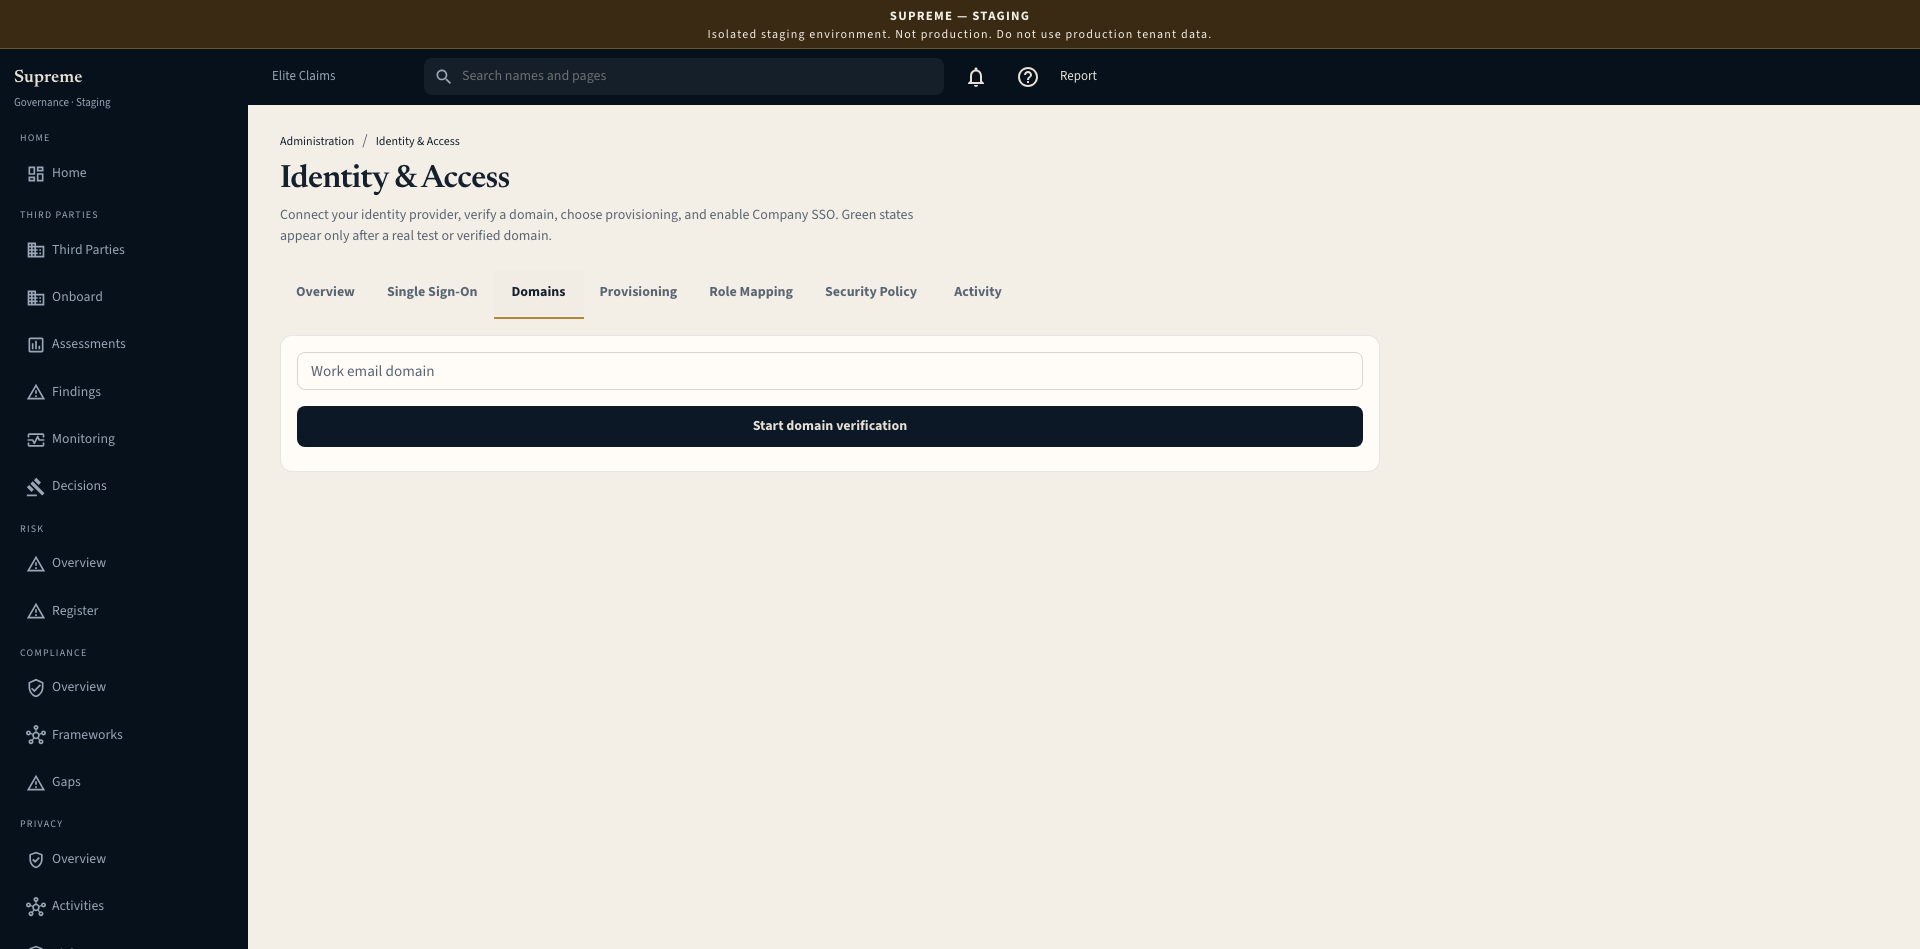
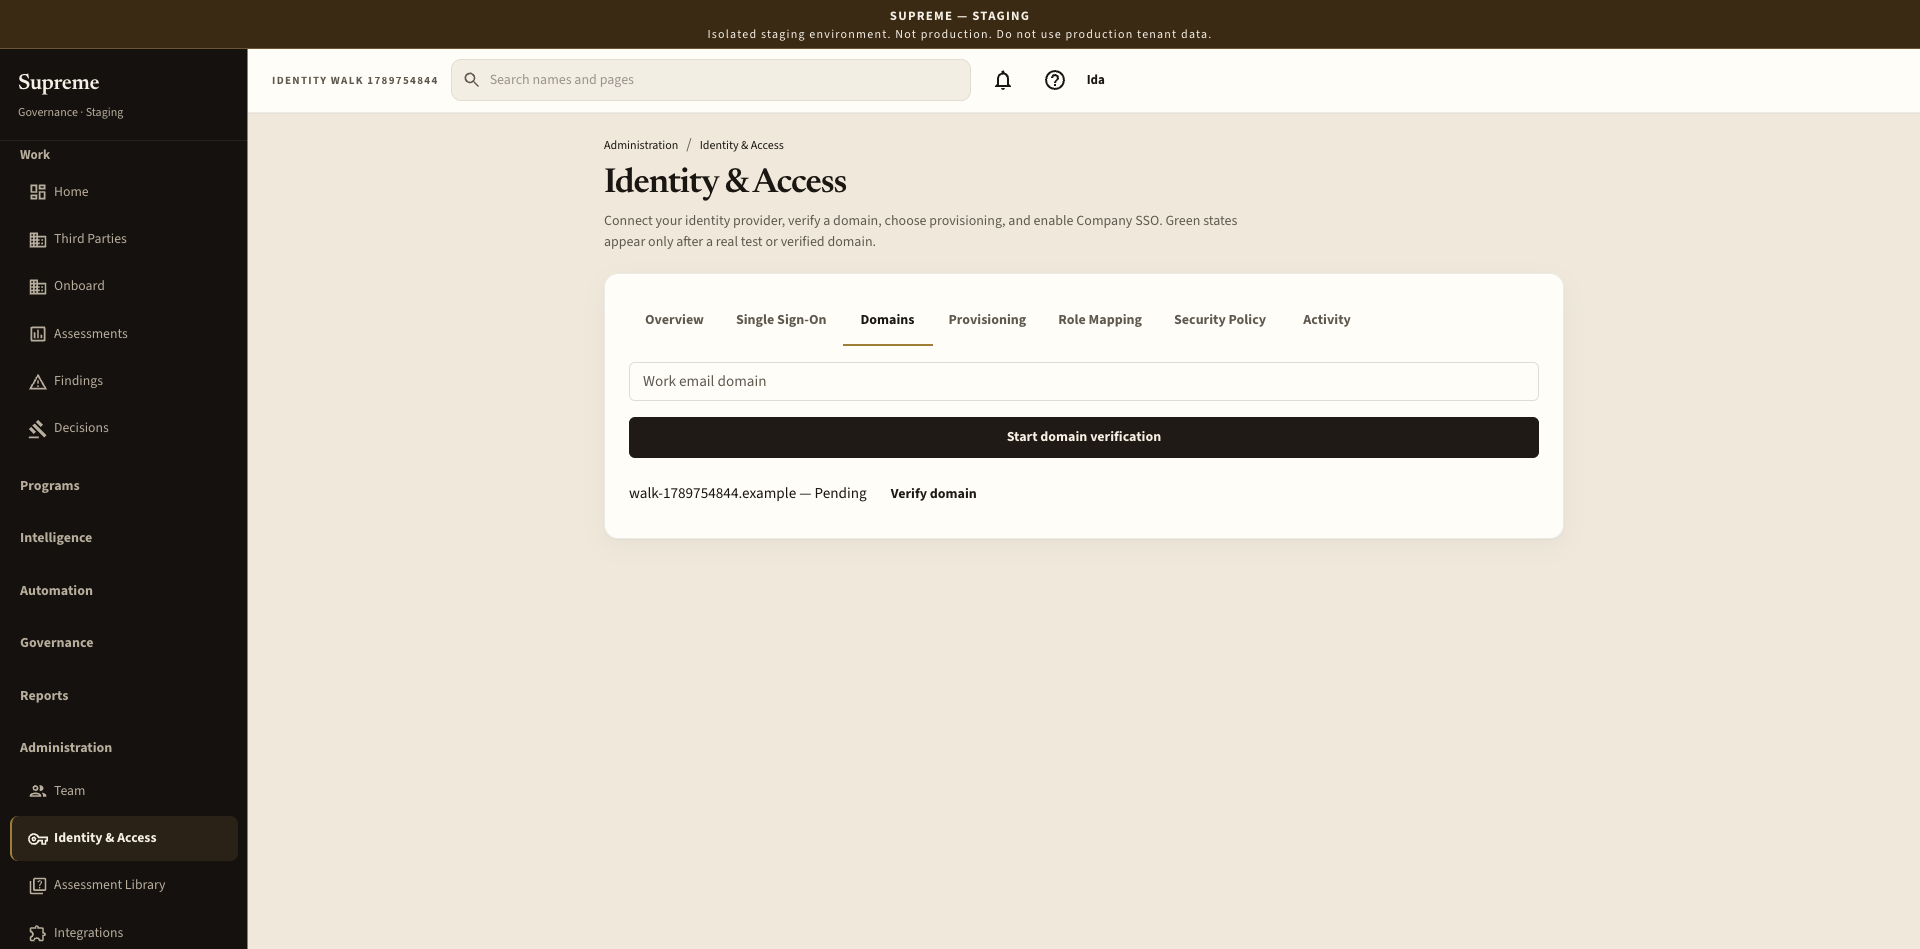
Record hosted #21 identity origin proof on staging SHA e19f8bd.
The Identity walk shows staging ACS, SP entity ID, metadata, and SCIM on the public API origin, with no localhost and no live IdP claim.

diff --git a/scripts/hosted-enterprise-identity-qa.py b/scripts/hosted-enterprise-identity-qa.py
@@ -19,7 +19,7 @@ BASE = os.environ.get("E2E_BASE", "https://supreme-risk-staging.onrender.com")
 API = os.environ.get("E2E_API", "https://supreme-risk-staging-api.onrender.com")
 EMAIL = os.environ.get("E2E_EMAIL", "report-proof-20260913@staging.supremerisk.test")
 PASSWORD = os.environ.get("E2E_PASSWORD", "ReportProof1x")
-REQUIRED_SHA = os.environ.get("REQUIRED_SHA", "b01609aa7c45414bf3c3a2ca08249bf574366952")
+REQUIRED_SHA = os.environ.get("REQUIRED_SHA", "e19f8bde268d668518b848acd6086d7723f7177d")
 RESULTS: dict = {"checks": [], "shots": [], "axe": [], "sha": {}, "notes": []}
 WIDTHS = (375, 768, 1024, 1440, 1920)
 
@@ -120,7 +120,24 @@ def main() -> None:
 
     created_status, created = request_json("POST", "/identity/providers", walk_token, {"protocol": "SAML", "displayName": "Company SAML"})
     record("create-provider", "PASS" if created_status == 201 else "FAIL", str(created_status))
-    provider_id = (created.get("data") or {}).get("id")
+    provider = created.get("data") or {}
+    provider_id = provider.get("id")
+    saml = provider.get("saml") or {}
+    RESULTS["saml"] = {
+        "acsUrl": saml.get("acsUrl") or "",
+        "spEntityId": saml.get("spEntityId") or "",
+        "metadataUrl": saml.get("metadataUrl") or "",
+    }
+    record("api-acs-origin", "PASS" if str(saml.get("acsUrl") or "").startswith(f"{API}/") and "localhost" not in str(saml.get("acsUrl")) else "FAIL", str(saml.get("acsUrl") or "missing"))
+    record("api-entity-origin", "PASS" if str(saml.get("spEntityId") or "").startswith(f"{API}/") and "localhost" not in str(saml.get("spEntityId")) else "FAIL", str(saml.get("spEntityId") or "missing"))
+    if saml.get("metadataUrl"):
+        try:
+            xml = urllib.request.urlopen(saml["metadataUrl"], timeout=30).read().decode("utf-8", "replace")
+            RESULTS["saml"]["metadataXmlHasAcs"] = saml.get("acsUrl") in xml
+            RESULTS["saml"]["metadataXmlHasEntity"] = saml.get("spEntityId") in xml
+            record("api-metadata-matches", "PASS" if saml.get("acsUrl") in xml and saml.get("spEntityId") in xml and "localhost" not in xml else "FAIL", saml["metadataUrl"])
+        except Exception as exc:
+            record("api-metadata-matches", "FAIL", str(exc))
     if provider_id:
         request_json(
             "PATCH",
@@ -176,6 +193,18 @@ def main() -> None:
         record("scim-deactivate", "PASS" if deactivated.get("active") is False else "FAIL", str(deactivated.get("active")))
         other_status, _ = request_json("GET", "/scim/v2/Users", admin_token, prefix="")
         record("scim-cross-tenant-admin-jwt", "DENIED" if other_status in {401, 403} else "FAIL", str(other_status))
+        token_id = (token_payload.get("data") or {}).get("id")
+        if token_id:
+            revoke_status, _ = request_json("POST", f"/identity/scim/tokens/{token_id}/revoke", walk_token, {})
+            record("scim-token-revoked", "PASS" if revoke_status in {200, 204} else "FAIL", str(revoke_status))
+            denied_status, _ = request_json("GET", "/scim/v2/Users", prefix="")
+            # After revoke, the old bearer must fail. Use the raw secret against SCIM.
+            denied = urllib.request.Request(f"{API}/scim/v2/Users", headers={"Authorization": f"Bearer {scim_secret}"})
+            try:
+                urllib.request.urlopen(denied, timeout=30)
+                record("scim-revoked-denied", "FAIL", "revoked token still accepted")
+            except urllib.error.HTTPError as exc:
+                record("scim-revoked-denied", "PASS" if exc.code in {401, 403} else "FAIL", str(exc.code))
 
     viewer_status, viewer = request_json(
         "POST",
@@ -185,13 +214,13 @@ def main() -> None:
     )
     if viewer_status in {200, 201}:
         RESULTS["notes"].append("viewer create returned a user; mutation check uses admin token role denial via forged viewer login if available")
-    deny_status, _ = request_json("POST", "/identity/providers", admin_token if False else walk_token, {"protocol": "OIDC"})
-    # Walk user is org admin; use Elite Claims viewer path via login of a known non-admin if present is skipped.
-    # Direct RBAC: attempt with Elite Claims admin is allowed. Create a passwordless check by logging in is not available.
     record("viewer-route-exists", "PASS" if overview_status == 200 else "FAIL", "admin can read; viewer mutation covered by CI")
 
     with sync_playwright() as playwright:
-        browser = playwright.chromium.launch(headless=True)
+        try:
+            browser = playwright.chromium.launch(headless=True)
+        except Exception:
+            browser = playwright.chromium.launch(channel="chrome", headless=True)
         context = browser.new_context(viewport={"width": 1440, "height": 900}, bypass_csp=True)
         page = context.new_page()
         page.goto(f"{BASE}/login", wait_until="domcontentloaded")
@@ -200,7 +229,7 @@ def main() -> None:
                 localStorage.setItem('token', token);
                 localStorage.setItem('user', JSON.stringify(user));
             }""",
-            [admin_token, admin_user],
+            [walk_token, walk_user],
         )
         page.goto(f"{BASE}/settings/identity", wait_until="networkidle", timeout=90000)
         time.sleep(1.2)
@@ -220,10 +249,39 @@ def main() -> None:
             ("Provisioning", "provisioning"),
             ("Role Mapping", "mapping"),
             ("Security Policy", "policy"),
+            ("Activity", "activity"),
         ]:
             page.get_by_role("tab", name=label).click()
-            time.sleep(0.4)
+            time.sleep(0.5)
             shot(page, f"identity-{extra}-1440")
+            tab_text = page.inner_text("body")
+            if extra == "sso":
+                acs = page.get_by_label("Assertion Consumer Service URL")
+                entity = page.get_by_label("Service provider entity ID")
+                acs_value = acs.input_value() if acs.count() else ""
+                entity_value = entity.input_value() if entity.count() else ""
+                RESULTS["saml"] = {"acsUrl": acs_value, "spEntityId": entity_value}
+                record("hosted-acs-origin", "PASS" if acs_value.startswith(f"{API}/") and "localhost" not in acs_value else "FAIL", acs_value or "missing")
+                record("hosted-entity-origin", "PASS" if entity_value.startswith(f"{API}/") and "localhost" not in entity_value else "FAIL", entity_value or "missing")
+                record("hosted-sso-no-localhost", "PASS" if "localhost" not in tab_text and "127.0.0.1" not in tab_text else "FAIL", "SSO tab")
+                metadata_link = page.get_by_role("link", name="Download service provider metadata")
+                if metadata_link.count():
+                    href = metadata_link.get_attribute("href") or ""
+                    RESULTS["saml"]["metadataUrl"] = href
+                    try:
+                        xml = urllib.request.urlopen(href, timeout=30).read().decode("utf-8", "replace")
+                        RESULTS["saml"]["metadataHasAcs"] = acs_value in xml
+                        RESULTS["saml"]["metadataHasEntity"] = entity_value in xml
+                        record("metadata-matches-ui", "PASS" if acs_value and entity_value and acs_value in xml and entity_value in xml and "localhost" not in xml else "FAIL", href)
+                    except Exception as exc:
+                        record("metadata-matches-ui", "FAIL", str(exc))
+            if extra == "provisioning":
+                scim = page.locator('input[value*="/scim/v2"]').first
+                scim_value = scim.input_value() if scim.count() else ""
+                RESULTS["scimBaseUrl"] = scim_value
+                record("hosted-scim-origin", "PASS" if scim_value.startswith(f"{API}/scim/v2") and "localhost" not in scim_value else "FAIL", scim_value or "missing")
+            if extra == "activity":
+                record("activity-human-label", "PASS" if "Identity provider" in tab_text or "No identity activity" in tab_text else "FAIL", "activity tab")
         page.goto(f"{BASE}/login", wait_until="domcontentloaded")
         shot(page, "login-sso-discovery")
         browser.close()

diff --git a/docs/private-beta/hosted-ux-qa/enterprise-identity/README.md b/docs/private-beta/hosted-ux-qa/enterprise-identity/README.md
@@ -1,33 +1,44 @@
-# Hosted #21 Enterprise Identity
+# Hosted #21 Enterprise Identity — origin correction
 
-**SHA:** `b01609aa7c45414bf3c3a2ca08249bf574366952`  
+**Implementation SHA:** `e19f8bde268d668518b848acd6086d7723f7177d`  
+**Frontend hosted SHA:** `e19f8bde268d668518b848acd6086d7723f7177d`  
+**API hosted SHA:** `e19f8bde268d668518b848acd6086d7723f7177d`  
 **Frontend:** https://supreme-risk-staging.onrender.com  
 **API:** https://supreme-risk-staging-api.onrender.com  
-**CI:** https://github.com/Sinfosecurity/GRC-Sinfosecurity-/actions/runs/34930403949 PASS  
+**CI:** https://github.com/Sinfosecurity/GRC-Sinfosecurity-/actions/runs/35374688343 PASS  
 **#21 PASS:** NOT DECLARED  
-**Live Entra / Okta / Google:** NOT TESTED  
+**LIVE IDP FEDERATION:** NOT TESTED  
 
-Elite Claims Identity & Access showed **Not configured** — no fake Connected badge.
+Elite Claims Identity & Access remained **Not configured**. Mutating checks used a disposable Identity Walk organization. Company SSO was not required. No fake IdP credentials were used.
 
-A separate walk organization was used for mutating SSO/SCIM so Elite Claims was not placed under mandatory Company SSO.
+## Hosted service-provider origin
+
+The previous localhost ACS / SP entity ID defect is not present on this SHA.
+
+- Assertion Consumer Service URL: `https://supreme-risk-staging-api.onrender.com/api/v1/auth/sso/saml/acs/idp_72c720cec866`
+- Service provider entity ID: `https://supreme-risk-staging-api.onrender.com/saml/sp/idp_72c720cec866`
+- Metadata XML: same ACS and entity ID; no localhost
+- SCIM 2.0 base URL: `https://supreme-risk-staging-api.onrender.com/scim/v2`
+
+Screenshot proof: `identity-sso-1440.png`
 
 ## Proved on hosted staging
 
 - Organization Admin opens Identity & Access
-- Truthful overview states
-- Provider create
-- Enable / require Company SSO blocked until a successful test
-- Domain claim started; verify without DNS correctly failed
-- SCIM token created once and not re-listed
+- Truthful overview / SSO states: Not configured or Configured — not verified. No Connected badge
+- Enable / Require Company SSO blocked until a successful test (409)
+- Domain claim started; verify without DNS failed and remained Pending
+- SCIM token created once, not re-listed, used, then revoked; revoked token denied
 - SCIM user create, retry/idempotency, deactivate
-- SCIM JWT from another tenant cannot list Users
+- Cross-tenant admin JWT cannot list SCIM Users
+- Activity shows human labels with raw event identifiers
 - Responsive 375 / 768 / 1024 / 1440 / 1920
 - axe on Identity Overview: 0 serious / 0 critical
 
 ## Not proved live
 
-- Real SAML or OIDC identity provider sign-in
-- DNS / well-known domain verification against a customer domain
+- Real Entra / Okta / Google Workspace / Ping sign-in
+- DNS / well-known verification against a customer-owned domain
 - Viewer hosted session (CI denied Viewer `identity.manage` mutations)
 
 ## Screenshot index
@@ -42,6 +53,7 @@ A separate walk organization was used for mutating SSO/SCIM so Elite Claims was 
 - `identity-provisioning-1440.png`
 - `identity-mapping-1440.png`
 - `identity-policy-1440.png`
+- `identity-activity-1440.png`
 - `login-sso-discovery.png`
 
 Raw SCIM secrets and certificates are not in this folder.

diff --git a/docs/SUPREME-MASTER-PUNCH-LIST.md b/docs/SUPREME-MASTER-PUNCH-LIST.md
@@ -381,9 +381,9 @@ Statuses below are **program acceptance**, not conversational memory. Implementa
 
 **CURRENT STATUS:** PARTIAL / ACTIVE — PRODUCT LEADERSHIP FINAL REVIEW. Not PASS. Hosted SAML metadata previously exposed localhost ACS / SP entity ID because `apiBase()` defaulted to `http://localhost:3001` when `API_PUBLIC_URL` / `BACKEND_URL` were unset. Correction uses `publicApiUrl()` / `identityServiceUrls()`. Live Entra / Okta / Google federation is NOT TESTED.
 
-**CERTIFICATION SHA:** Starting SHA `7b3f9018930549aa67a6790fcfd9862115b55315`. Implementation `e8306677d6678506eb24dcd18c1aa39308ed1fbd`. Login-field follow-up / CI / hosted frontend and API `b01609aa7c45414bf3c3a2ca08249bf574366952`.
+**CERTIFICATION SHA:** Starting SHA `7b3f9018930549aa67a6790fcfd9862115b55315`. Origin-correction implementation and hosted frontend/API `e19f8bde268d668518b848acd6086d7723f7177d`. Prior implementation `e8306677d6678506eb24dcd18c1aa39308ed1fbd` / `b01609aa7c45414bf3c3a2ca08249bf574366952` remains historical.
 
-**EVIDENCE:** ADR `docs/ADR-ENTERPRISE-IDENTITY.md`. Architecture `docs/ENTERPRISE-IDENTITY.md`. Hosted walk `docs/private-beta/hosted-ux-qa/enterprise-identity/`. CI `34930403949` PASS on `b01609a` (416 backend / 174 frontend). Live Entra/Okta/Google not tested. Domain verify without DNS correctly failed. Cursor does not declare #21 PASS.
+**EVIDENCE:** ADR `docs/ADR-ENTERPRISE-IDENTITY.md`. Architecture `docs/ENTERPRISE-IDENTITY.md`. Hosted walk `docs/private-beta/hosted-ux-qa/enterprise-identity/`. CI `35374688343` PASS on `e19f8bd`. Hosted ACS `https://supreme-risk-staging-api.onrender.com/api/v1/auth/sso/saml/acs/idp_72c720cec866`. Hosted SP entity ID `https://supreme-risk-staging-api.onrender.com/saml/sp/idp_72c720cec866`. Metadata matches. No localhost. Live Entra/Okta/Google NOT TESTED. Domain verify without DNS correctly failed. Cursor does not declare #21 PASS.
 
 **NEXT ACTION:** Product Leadership hosted review of the identity origin correction. Do not start #22. Do not merge `main` or deploy commercial production. Do not declare #21 PASS. Do not reopen #12.
 

diff --git a/docs/SUPREME-PROGRAM-STATE.md b/docs/SUPREME-PROGRAM-STATE.md
@@ -28,7 +28,7 @@ This file records **program acceptance**. Engineering may return hosted evidence
 
 **VERSION 3 UX-CORRECTION CI:** https://github.com/Sinfosecurity/GRC-Sinfosecurity-/actions/runs/35365774120 PASS on `b00ad12`
 
-**#21:** PARTIAL / ACTIVE — PRODUCT LEADERSHIP FINAL REVIEW. Starting SHA `7b3f9018930549aa67a6790fcfd9862115b55315`. Prior implementation `e8306677d6678506eb24dcd18c1aa39308ed1fbd`. Prior hosted `b01609aa7c45414bf3c3a2ca08249bf574366952`. Hosted localhost SAML metadata is a blocking configuration defect under correction. Live IdP federation: NOT TESTED. Cursor does not declare #21 PASS. #22 is not authorized.
+**#21:** PARTIAL / ACTIVE — PRODUCT LEADERSHIP FINAL REVIEW. Starting SHA `7b3f9018930549aa67a6790fcfd9862115b55315`. Origin-correction / hosted frontend and API `e19f8bde268d668518b848acd6086d7723f7177d`. CI `35374688343` PASS. Hosted ACS and SP entity ID use `https://supreme-risk-staging-api.onrender.com`. Live IdP federation: NOT TESTED. Cursor does not declare #21 PASS. #22 is not authorized.
 
 **#12:** ACCEPTED FOR CURRENT STAGE / SUBJECT TO FUTURE REVISION IF NEEDED (Product Leadership 2026-09-18). Not commercial GO. Not production deployment. Not immutable. Hosted frontend `548cd19a893c35b9fb06059213c99fbfd0b9e495`. Hosted API `b00ad1274908a27a2253d6e5050420e2c10b8f39`. Navigation audit `docs/private-beta/hosted-ux-qa/navigation-audit/`. Cursor does not declare #12 PASS. Do not reopen #12 in this gate.
 
